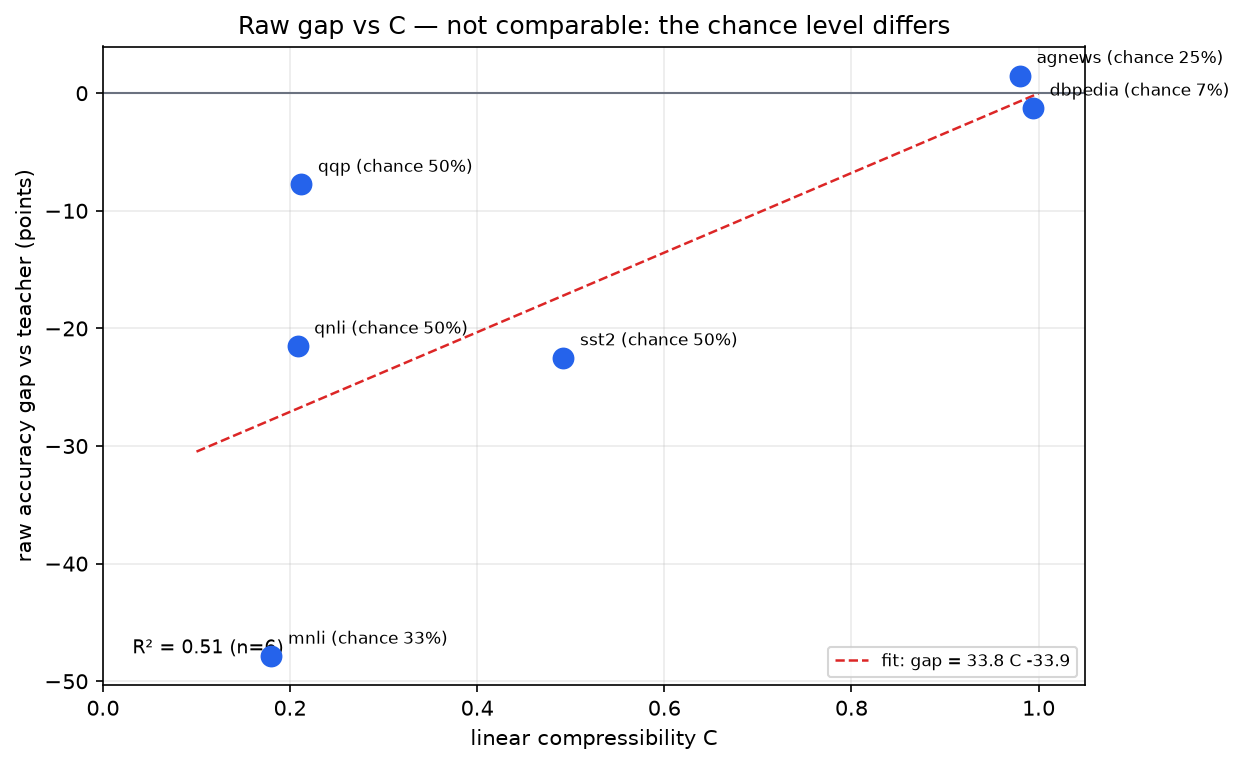
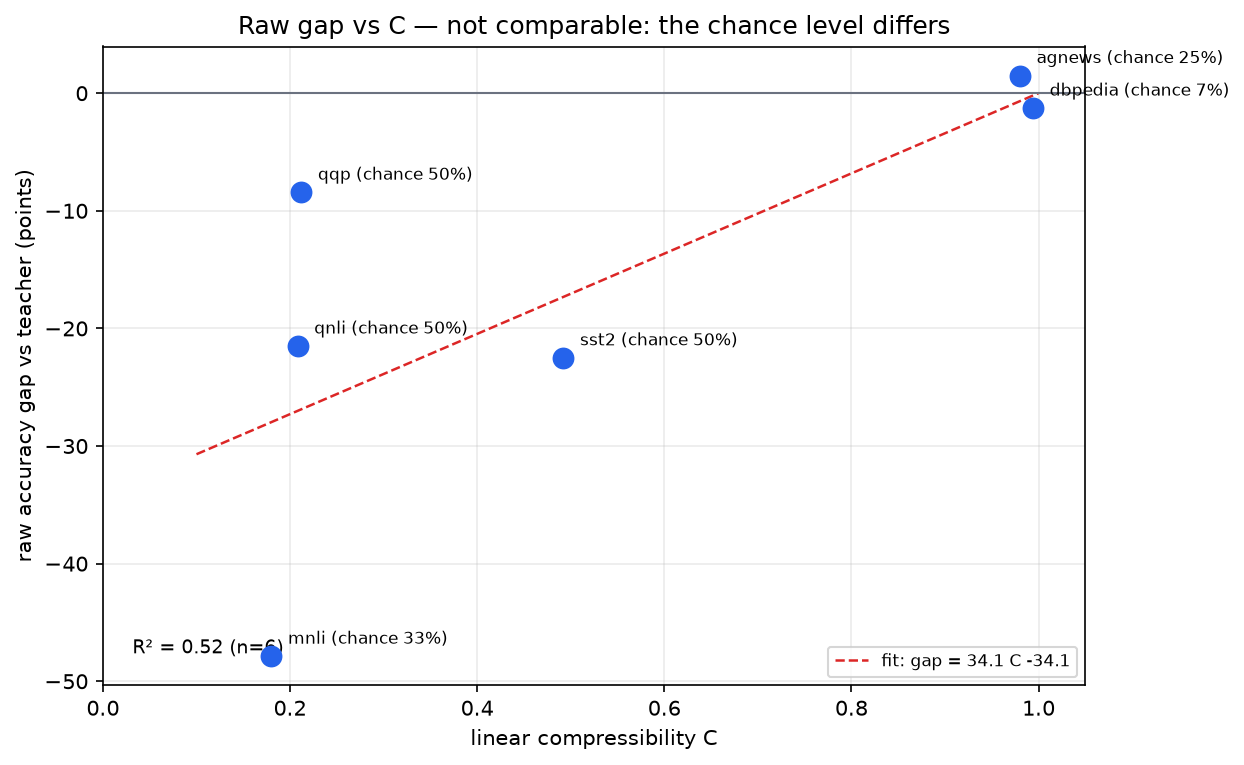
research: QQP seed replication - S 0.49 (3 seeds), C is a lower bound
- 4-bit accuracy 58.75 / 57.50 / 58.00 across seeds; mean 58.08
- S = (58.08 - 50) / (66.5 - 50) = 0.49, still far above the linear C 0.21
- six-point fit S = 0.92 C + 0.09, R2 = 0.885; C is a floor, not a predictor

diff --git a/research/replicate_qqp.py b/research/replicate_qqp.py
@@ -1,0 +1,93 @@
+"""Replicate the QQP student with a different seed (teacher labels are fixed)."""
+import json
+import random
+import sys
+
+import torch
+from torch.utils.data import DataLoader, Dataset
+from transformers import BertConfig, BertForSequenceClassification, BertTokenizer
+
+SEED = int(sys.argv[1]) if len(sys.argv) > 1 else 1
+D = json.load(open("research/results/qqp_labels.json", encoding="utf-8"))
+LABELS = ["not_duplicate", "duplicate"]
+L2I = {c: i for i, c in enumerate(LABELS)}
+tr = [r for r in D["train"] if r["label"] != "unknown"]
+te = D["test"]
+torch.manual_seed(SEED); random.seed(SEED)
+MODEL = "prajjwal1/bert-tiny"
+
+
+class DS(Dataset):
+    def __init__(self, rows, tok, train=True):
+        self.enc = tok([r["question1"] for r in rows], [r["question2"] for r in rows],
+                       truncation=True, max_length=96, padding="max_length", return_tensors="pt")
+        key = "label" if train else "true"
+        self.y = torch.tensor([L2I.get(r[key], 0) for r in rows])
+
+    def __len__(self):
+        return len(self.y)
+
+    def __getitem__(self, i):
+        return {"input_ids": self.enc["input_ids"][i], "attention_mask": self.enc["attention_mask"][i],
+                "labels": self.y[i]}
+
+
+def quantize(w, bits, group=64):
+    shape = w.shape
+    rows = w.reshape(-1, shape[-1]).float()
+    n, cols = rows.shape
+    pad = (-cols) % group
+    if pad:
+        rows = torch.cat([rows, torch.zeros(n, pad, device=rows.device)], 1)
+    g = rows.view(n, -1, group)
+    lo, hi = g.amin(2, keepdim=True), g.amax(2, keepdim=True)
+    levels = 2 ** bits - 1
+    scale = (hi - lo).clamp_min(1e-12) / levels
+    q = ((g - lo) / scale).round().clamp(0, levels) * scale + lo
+    return q.reshape(n, -1)[:, :cols].reshape(shape).to(w.dtype)
+
+
+@torch.no_grad()
+def acc(model, ds):
+    model.eval()
+    correct = 0
+    for b in DataLoader(ds, batch_size=64):
+        b = {k: v.cuda() for k, v in b.items()}
+        correct += int((model(**b).logits.argmax(1) == b["labels"]).sum())
+    return correct / len(ds)
+
+
+tok = BertTokenizer.from_pretrained(MODEL)
+cfg = BertConfig.from_pretrained(MODEL)
+cfg.num_labels = 2
+model = BertForSequenceClassification.from_pretrained(MODEL, config=cfg).cuda()
+tr_ds, te_ds = DS(tr, tok), DS(te, tok, train=False)
+opt = torch.optim.AdamW(model.parameters(), lr=5e-5, weight_decay=0.01)
+dl = DataLoader(tr_ds, batch_size=32, shuffle=True)
+for ep in range(8):
+    model.train()
+    for b in dl:
+        b = {k: v.cuda() for k, v in b.items()}
+        loss = model(**b).loss
+        opt.zero_grad(); loss.backward(); opt.step()
+    print(f"epoch {ep+1} loss {loss.item():.4f} acc {acc(model, te_ds):.4f}", flush=True)
+base = acc(model, te_ds)
+total = sum(p.numel() for p in model.parameters())
+rows = []
+for bits in [16, 4]:
+    if bits < 16:
+        orig = {k: p.detach().clone() for k, p in model.named_parameters() if p.dim() == 2}
+        for k, p in model.named_parameters():
+            if p.dim() == 2:
+                p.data.copy_(quantize(orig[k], bits))
+    a = acc(model, te_ds)
+    size = (total * bits / 8) if bits < 16 else total * 2
+    row = {"bits": bits, "acc": round(a, 4), "size_mb": round(size / 1e6, 2),
+           "bits_per_teacher_param": round(size * 8 / 1.5e9, 5)}
+    rows.append(row); print(json.dumps(row))
+    if bits < 16:
+        for k, p in model.named_parameters():
+            if p.dim() == 2:
+                p.data.copy_(orig[k])
+json.dump({"seed": SEED, "base_acc": round(base, 4), "params": total, "rows": rows},
+          open(f"research/results/qqp_bert_tiny_seed{SEED}.json", "w"), indent=1)

diff --git a/research/STATE.md b/research/STATE.md
@@ -23,7 +23,7 @@ property of the behaviour and of the student's inductive bias, not a universal b
 | SST-2 (2-way) | 2.19 MB BERT-tiny 4-bit | 0.0117 | 71.75% vs 94.25% (-22.5) |
 | SST-2 (2-way) | 16.7 MB DistilBERT 2-bit | 0.089 | 73.5% vs 94.25% (-20.8) |
 | QNLI (2-way) | 2.19 MB BERT-tiny 4-bit | 0.0117 | 59.75% vs 81.25% (-21.5) |
-| QQP (2-way) | 2.19 MB BERT-tiny 4-bit | 0.0117 | 58.75% vs 66.50% (-7.75 raw; S 0.53) |
+| QQP (2-way) | 2.19 MB BERT-tiny 4-bit | 0.0117 | 58.08% vs 66.50% (-8.4 raw; S 0.49) |
 | MNLI (3-way) | 2.19 MB BERT-tiny 4-bit | 0.0117 | 36.8% vs 84.7% (-47.9, chance) |
 | MNLI (3-way) | 16.7 MB DistilBERT 2-bit | 0.089 | 35.8% vs 84.7% (-48.9, chance) |
 | date -> ISO | 0.67 MB seq2seq 4-bit | **0.0036** | 99.8% exact (teacher 100%) |
@@ -38,7 +38,7 @@ Same student (BERT-tiny 4.39M), same 0.0117 bit/param:
 |---|---:|---:|---:|
 | AG News | 76.75% | 75.25% | **+1.5** |
 | DBPedia | 91.33% | 92.60% | **-1.3** |
-| QQP | 58.75% | 66.50% | **-7.8** (S 0.53) |
+| QQP | 58.08% | 66.50% | **-8.4** (S 0.49) |
 | QNLI | 59.75% | 81.25% | **-21.5** |
 | SST-2 | 71.75% | 94.25% | **-22.5** |
 | MNLI | 36.80% | 84.71% | **-47.9** |
@@ -66,9 +66,10 @@ architectures, the idea of task-specific compression.
 
 **C is a lower bound, not a predictor.** With five tasks, chance-normalized skill looked
 like it tracked `C` almost 1:1 (S = 1.04 C - 0.01, R² = 0.965). **QQP breaks it:** C 0.21,
-S 0.53. Six tasks give S = 0.91 C + 0.11, R² = 0.859. The transformer captures paraphrase
-structure that TF-IDF cannot. The cheap linear student is a floor on what a better student
-can do, not a predictor of it. The next test is 10 tasks with a multi-feature model.
+S 0.49 (3-seed mean). Six tasks give S = 0.92 C + 0.09, R² = 0.885. The transformer
+captures paraphrase structure that TF-IDF cannot. The cheap linear student is a floor on
+what a better student can do, not a predictor of it. The next test is 10 tasks with a
+multi-feature model.
 
 ## Failed attempts, kept as negative results
 

diff --git a/docs/BEHAVIORAL_BITS.md b/docs/BEHAVIORAL_BITS.md
@@ -26,8 +26,8 @@ paper. Test sets and seeds are fixed before the run.
   AG News, -1.3 on DBPedia, -21.5 on QNLI, -22.5 on SST-2, and -47.9 on MNLI (36.8% vs
   33.3% chance; teacher 84.7%).
 - **A cheap diagnostic, but only a lower bound.** A 45 KB TF-IDF student's `C` tracks the
-  4.4M student's normalized skill loosely (**S = 0.91 C + 0.11, R² = 0.86**, 6 tasks), but
-  QQP (C 0.21, S 0.53) breaks it: the transformer captures paraphrase that TF-IDF misses.
+  4.4M student's normalized skill loosely (**S = 0.92 C + 0.09, R² = 0.89**, 6 tasks), but
+  QQP (C 0.21, S 0.49) breaks it: the transformer captures paraphrase that TF-IDF misses.
   C is a floor, not a predictor.
 - **Two walls, not one.** The bit wall is about how many bits a weight needs; the
   capacity wall is about how many parameters the behaviour needs. Distillation can move
@@ -214,13 +214,14 @@ Normalize by chance:
 | DBPedia | 7.1% | 0.99 | 0.99 |
 | SST-2 | 50% | 0.49 | 0.49 |
 | QNLI | 50% | 0.21 | 0.31 |
-| QQP | 50% | 0.21 | 0.53 |
+| QQP | 50% | 0.21 | 0.49 |
 | MNLI | 33.3% | 0.18 | 0.07 |
 
-Fit: **S = 0.91 C + 0.11, R² = 0.859** (6 tasks). With five tasks S ≈ C looked strong
-(R² = 0.965). **QQP breaks it:** C is 0.21 but S is 0.53. The transformer captures
-paraphrase structure that TF-IDF cannot. C is a **lower bound** on what a better student
-can do, not a predictor. The residuals are the interesting part (QQP +0.32, MNLI -0.11).
+Fit: **S = 0.92 C + 0.09, R² = 0.885** (6 tasks). With five tasks S ≈ C looked strong
+(R² = 0.965). **QQP breaks it:** C is 0.21 but S is 0.49 (mean of three seeds; 0.45-0.53).
+The transformer captures paraphrase structure that TF-IDF cannot. C is a **lower bound** on
+what a better student can do, not a predictor. The residuals are the interesting part
+(QQP +0.20, MNLI -0.19).
 
 This is a useful diagnostic, not a law: six classification tasks, no generation, and the
 linear model is a floor. The next step is 10 tasks and a multi-feature model

diff --git a/research/README.md b/research/README.md
@@ -65,9 +65,9 @@ McNemar p = 0.689, 0.00186 bit/teacher-param. A 4.39M BERT-tiny at 4-bit = 2.19 
 **DBPedia-14 (14-way, 3B teacher 92.6%):** the same 4.39M BERT-tiny at 4-bit = 91.33%
 (-1.3, 0.0117 bit/param); linear C 0.99. Class count alone is not the wall.
 
-**QQP (2-way, 3B teacher 66.5%):** the same BERT-tiny at 4-bit = 58.75% (raw gap -7.75;
-S 0.53); linear C 0.21. The transformer beats the linear model — C is a lower bound, not a
-predictor.
+**QQP (2-way, 3B teacher 66.5%):** the same BERT-tiny at 4-bit = 58.08% (3-seed mean;
+range 57.5-58.75; S 0.49); linear C 0.21. The transformer beats the linear model — C is a
+lower bound, not a predictor.
 
 **SST-2 (2-way, 1.5B teacher 94.25%):** DistilBERT 66M at 2-bit = 73.5%,
 0.0893 bit/teacher-param (-20.8 points); at 4-bit = 83.75% (-10.5 points). The same
@@ -99,12 +99,13 @@ gap is misleading because chance levels differ; normalize the student too:
 | DBPedia | 7.1% | 0.99 | 0.99 |
 | SST-2 | 50% | 0.49 | 0.49 |
 | QNLI | 50% | 0.21 | 0.31 |
-| QQP | 50% | 0.21 | 0.53 |
+| QQP | 50% | 0.21 | 0.49 |
 | MNLI | 33.3% | 0.18 | 0.07 |
 
-Fit: **S = 0.91 C + 0.11, R² = 0.859** (n=6). With five tasks S ≈ C looked strong
-(R² = 0.965); QQP breaks it (C 0.21, S 0.53). The transformer captures paraphrase that
-TF-IDF cannot. C is a lower bound, not a predictor; `NEXT.md` has the 10-task test.
+Fit: **S = 0.92 C + 0.09, R² = 0.885** (n=6). With five tasks S ≈ C looked strong
+(R² = 0.965); QQP breaks it (C 0.21, S 0.49, 3-seed mean). The transformer captures
+paraphrase that TF-IDF cannot. C is a lower bound, not a predictor; `NEXT.md` has the
+10-task test.
 
 ## MNLI: a capacity failure, not a bit-rate result
 

diff --git a/research/NEXT.md b/research/NEXT.md
@@ -9,7 +9,7 @@ We now have a measured spectrum, not a law:
 | DBPedia-14 | 2.19 MB BERT-tiny 4-bit | 0.0117 | -1.3 points |
 | SST-2 (2-way) | 2.19 MB BERT-tiny 4-bit | 0.0117 | -22.5 points |
 | QNLI (2-way) | 2.19 MB BERT-tiny 4-bit | 0.0117 | -21.5 points |
-| QQP (2-way) | 2.19 MB BERT-tiny 4-bit | 0.0117 | -7.8 raw, S 0.53 |
+| QQP (2-way) | 2.19 MB BERT-tiny 4-bit | 0.0117 | -8.4 raw, S 0.49 |
 | date -> ISO | 0.67 MB seq2seq 4-bit | 0.0036 | 99.8% exact |
 | MNLI (3-way) | 2.19 MB BERT-tiny 4-bit | 0.0117 | -47.9 points (chance) |
 | MNLI (3-way) | 33.5 MB DistilBERT 4-bit | 0.179 | -27.6 points |
@@ -32,10 +32,10 @@ The next question is whether the floor can be predicted **before** training a st
 
 The six-point check: in **chance-normalized skill**
 `S = (student - chance) / (teacher - chance)`, S tracks C loosely
-(**S = 0.91 C + 0.11, R² = 0.859**), but **QQP breaks the near-identity** (C 0.21, S 0.53).
-The linear student is a lower bound; a transformer can capture compositional structure it
-misses. The next test is 10 tasks with a multi-feature model (class count, chance, C,
-student type), not a bigger fit on C.
+(**S = 0.92 C + 0.09, R² = 0.885**), but **QQP breaks the near-identity** (C 0.21, S 0.49,
+3-seed mean). The linear student is a lower bound; a transformer can capture compositional
+structure it misses. The next test is 10 tasks with a multi-feature model (class count,
+chance, C, student type), not a bigger fit on C.
 
 ## Experiment
 

diff --git a/research/ARTICLE.md b/research/ARTICLE.md
@@ -167,9 +167,9 @@ QNLI's -21.5 on 50%. Normalize both student and teacher by chance:
 `C = (linear - chance)/(teacher - chance)`, `S = (student - chance)/(teacher - chance)`.
 
 The six points are AG News (C 0.98, S 1.03), DBPedia (0.99, 0.99), SST-2 (0.49, 0.49),
-QNLI (0.21, 0.31), QQP (0.21, 0.53), MNLI (0.18, 0.07). Fit: **S = 0.91 C + 0.11,
-R² = 0.859**. With five tasks S ≈ C looked strong (R² = 0.965); **QQP breaks it** — C 0.21
-but S 0.53. The transformer captures paraphrase structure that TF-IDF cannot. C is a lower
+QNLI (0.21, 0.31), QQP (0.21, 0.49), MNLI (0.18, 0.07). Fit: **S = 0.92 C + 0.09,
+R² = 0.885**. With five tasks S ≈ C looked strong (R² = 0.965); **QQP breaks it** — C 0.21
+but S 0.49. The transformer captures paraphrase structure that TF-IDF cannot. C is a lower
 bound on what a better student can do, not a predictor.
 
 ## 7. Two walls
